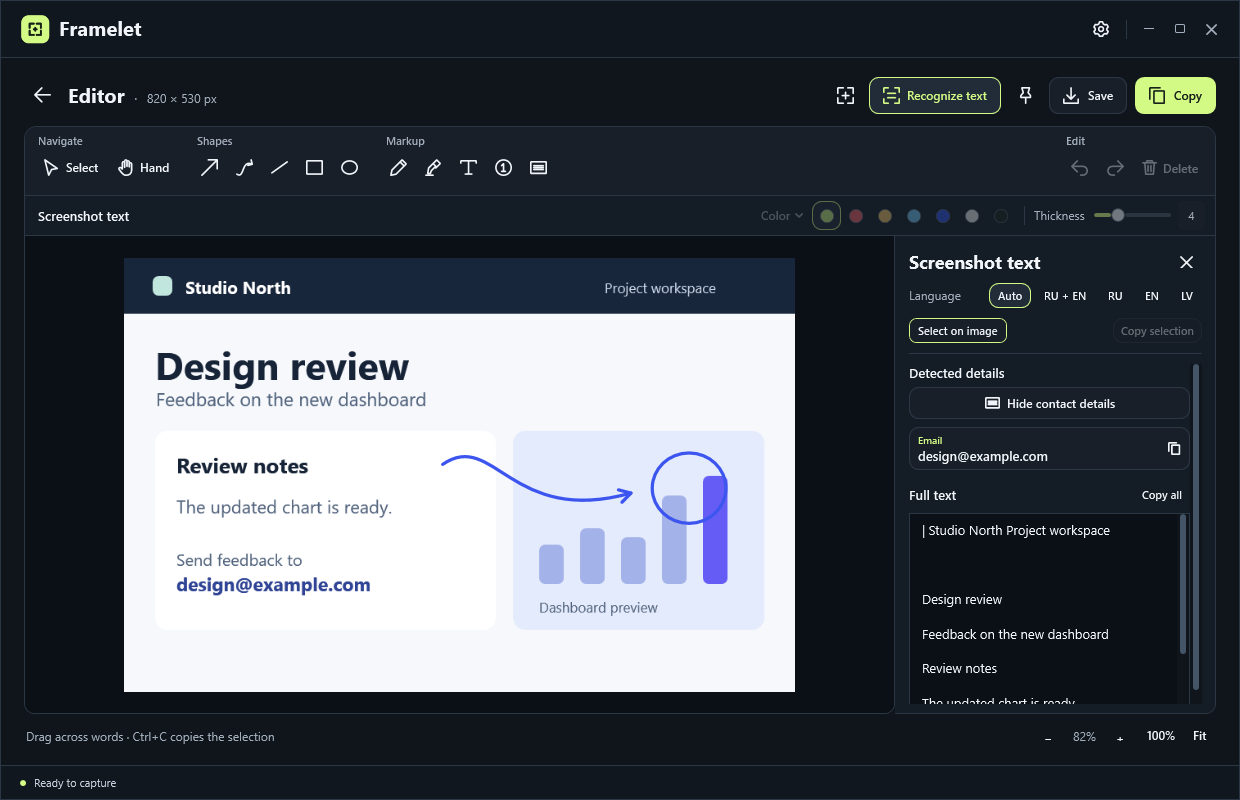
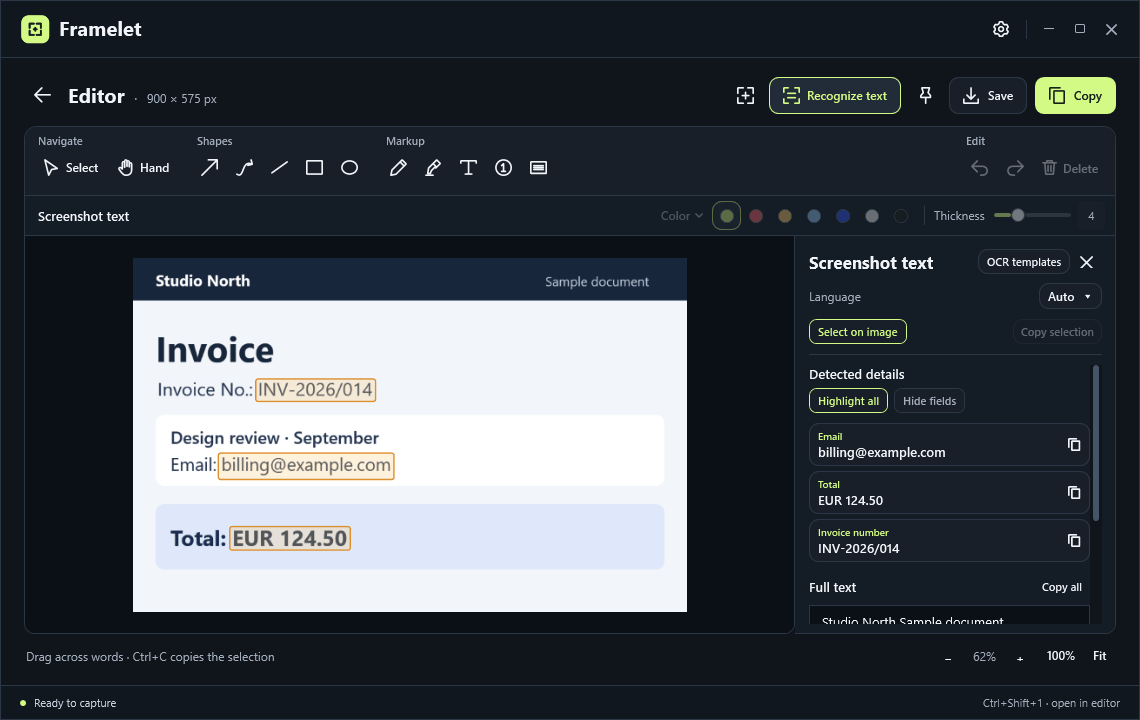
Refresh README images with the current OCR interface

diff --git a/README.ru.md b/README.ru.md
@@ -3,7 +3,7 @@
 </p>
 
 <p align="center">
-  <img src="docs/images/framelet-social-preview.png" width="780" alt="Framelet для Windows. В редакторе видны плавная стрелка, эллипс и панель распознавания текста.">
+  <img src="docs/images/framelet-social-preview.png" width="780" alt="Framelet для Windows. Панель OCR подсвечивает номер счёта, email и сумму на снимке.">
 </p>
 
 <p align="center">
@@ -72,7 +72,7 @@ Framelet — портативное приложение для скриншот
 <details>
 <summary>Скриншоты редактора и истории</summary>
 
-![Редактор Framelet с плавной стрелкой, эллипсом и результатами распознавания текста](docs/images/framelet-editor.png)
+![Редактор Framelet подсвечивает найденные поля счёта прямо на снимке](docs/images/framelet-editor.png)
 
 ![Главный экран Framelet с режимами захвата, недавними снимками и поиском](docs/images/framelet-history.png)
 

diff --git a/README.md b/README.md
@@ -3,7 +3,7 @@
 </p>
 
 <p align="center">
-  <img src="docs/images/framelet-social-preview.png" width="780" alt="Framelet for Windows. The editor shows a curved arrow, an ellipse, and the offline OCR panel.">
+  <img src="docs/images/framelet-social-preview.png" width="780" alt="Framelet for Windows. The OCR panel highlights the invoice number, email, and total on the screenshot.">
 </p>
 
 <p align="center">
@@ -72,7 +72,7 @@ The interface is available in English and Russian. OCR language settings are sep
 <details>
 <summary>Editor and history screenshots</summary>
 
-![Framelet editor showing a curved arrow, an ellipse, and recognized text](docs/images/framelet-editor.png)
+![Framelet editor highlighting detected invoice fields on the screenshot](docs/images/framelet-editor.png)
 
 ![Framelet home screen showing capture modes, recent screenshots, and search](docs/images/framelet-history.png)
 
